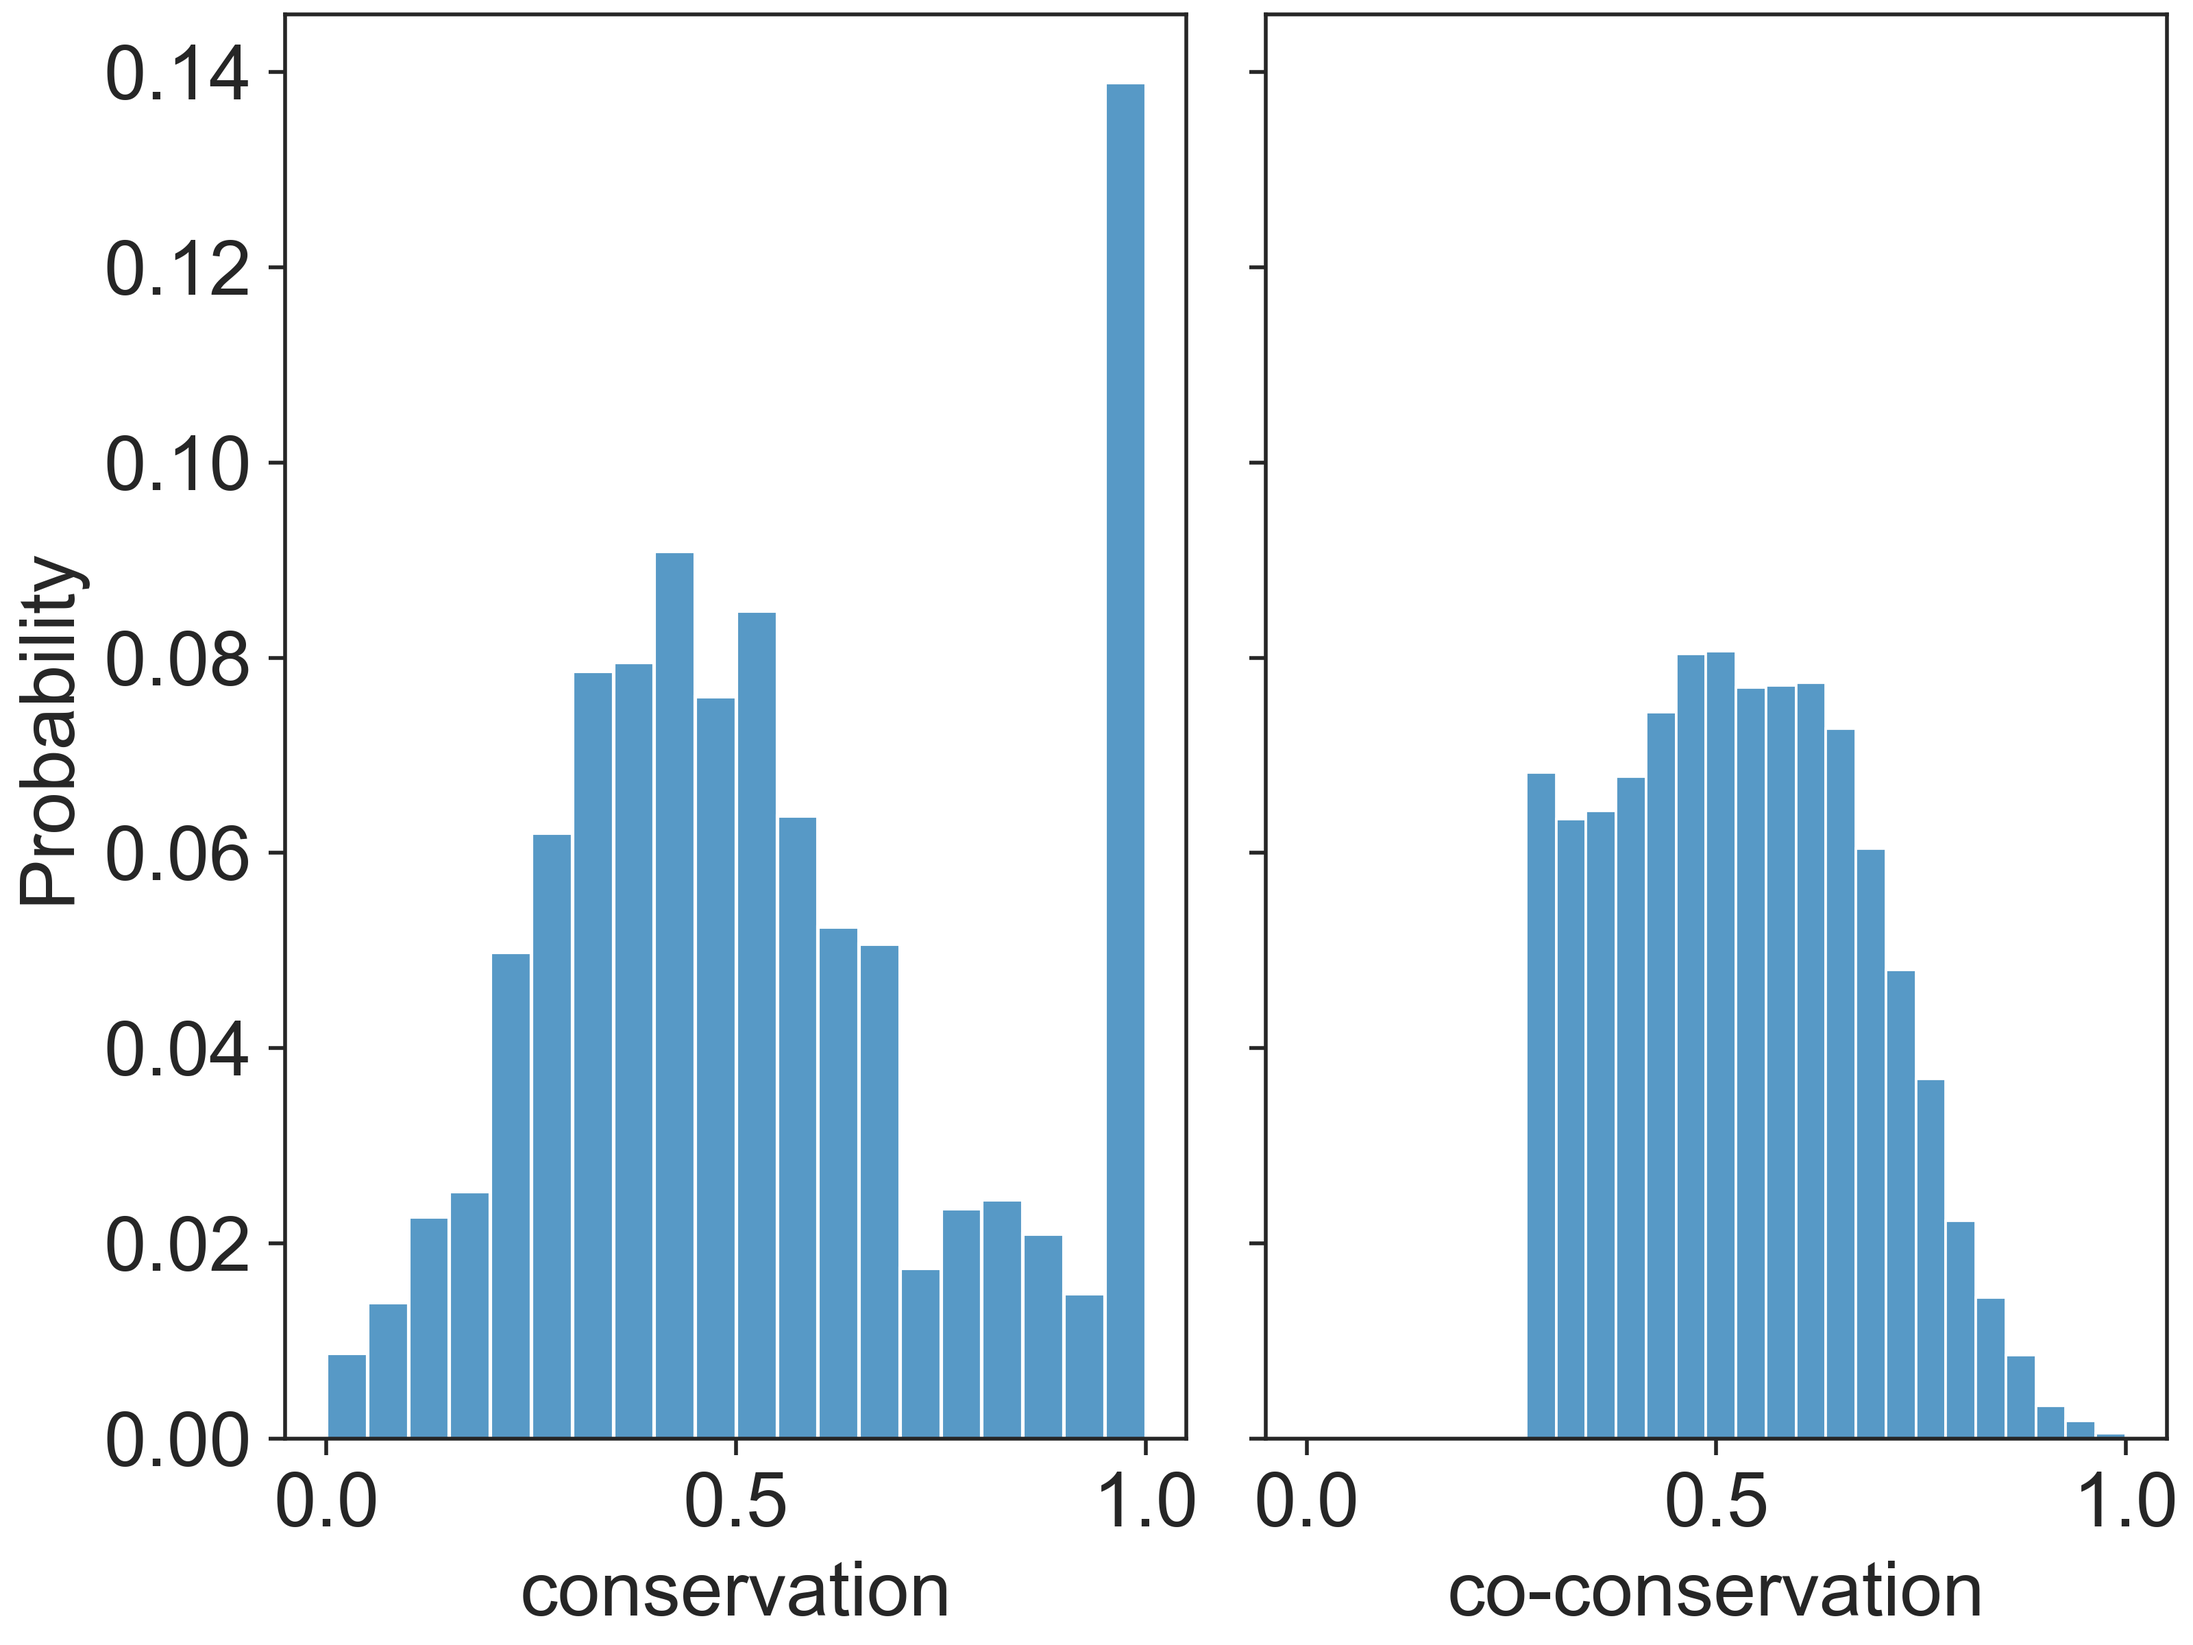
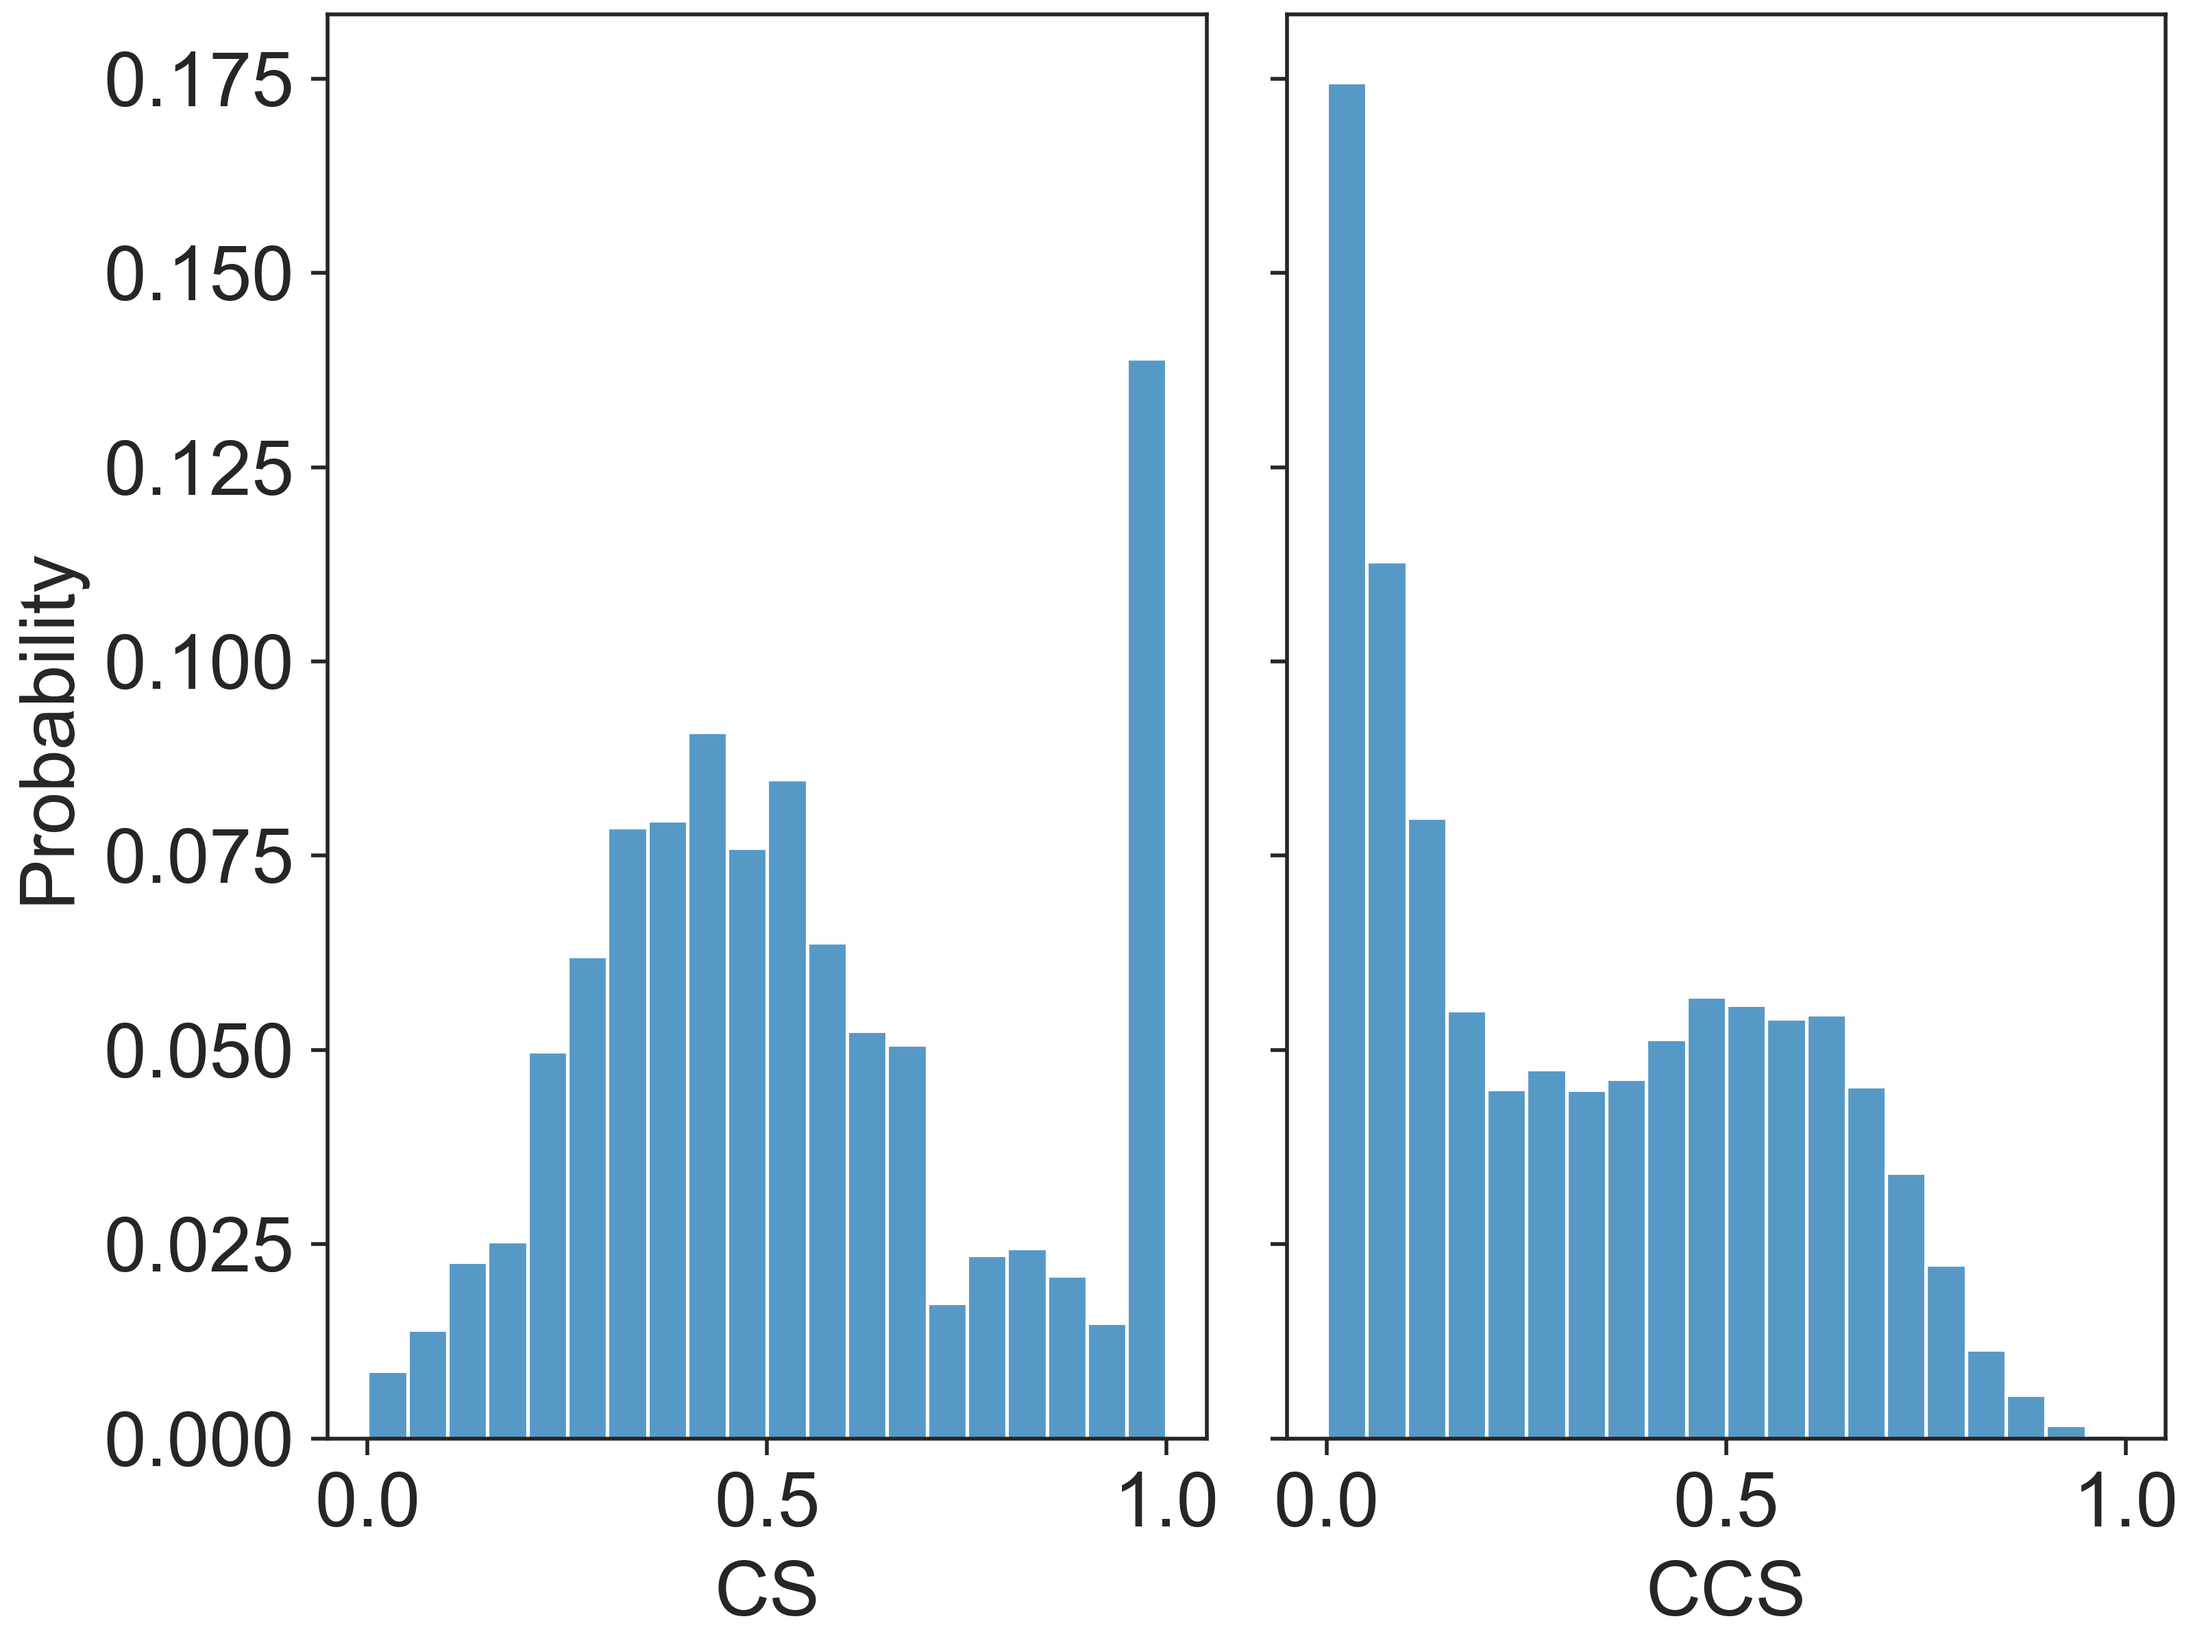
Update Figure1;

Changed region(s): [[0.0312, 0.0, 0.9688, 1.0], [0.0312, 0.1562, 0.0625, 0.1875]]

diff --git a/v2/output_procon_analysis.py b/v2/output_procon_analysis.py
@@ -705,7 +705,7 @@ class ProConNetwork:
         log.debug("self.type2.min() = %s", self.type2["info"].min())
         log.debug("self.type2.max() = %s", self.type2["info"].max())
         type1_info = self.type1["info_norm"]
-        type2_info = self.type2["info_norm"][self.type2["info"] > self.threshold]
+        type2_info = self.type2["info_norm"]
         data = pd.DataFrame({"score": pd.concat([type1_info, type2_info]).reset_index(drop=True),
                              "kind": ["CR"] * len(type1_info) + ["CCR"] * len(type2_info)})
         axes: List[plt.Axes]
@@ -714,8 +714,8 @@ class ProConNetwork:
         sns.histplot(data=data[data["kind"] == "CCR"], x="score", stat="probability", bins=20, ax=axes[1], )
         # axes[0].set_xlabel("")
         # axes[1].set_xlabel("")
-        axes[0].set_xlabel("conservation")
-        axes[1].set_xlabel("co-conservation")
+        axes[0].set_xlabel("CS")
+        axes[1].set_xlabel("CCS")
         fig.show()
         fig.savefig(os.path.join(self.data_dir, "Figure 1 Distribution of conservation.png"), dpi=500)
 
